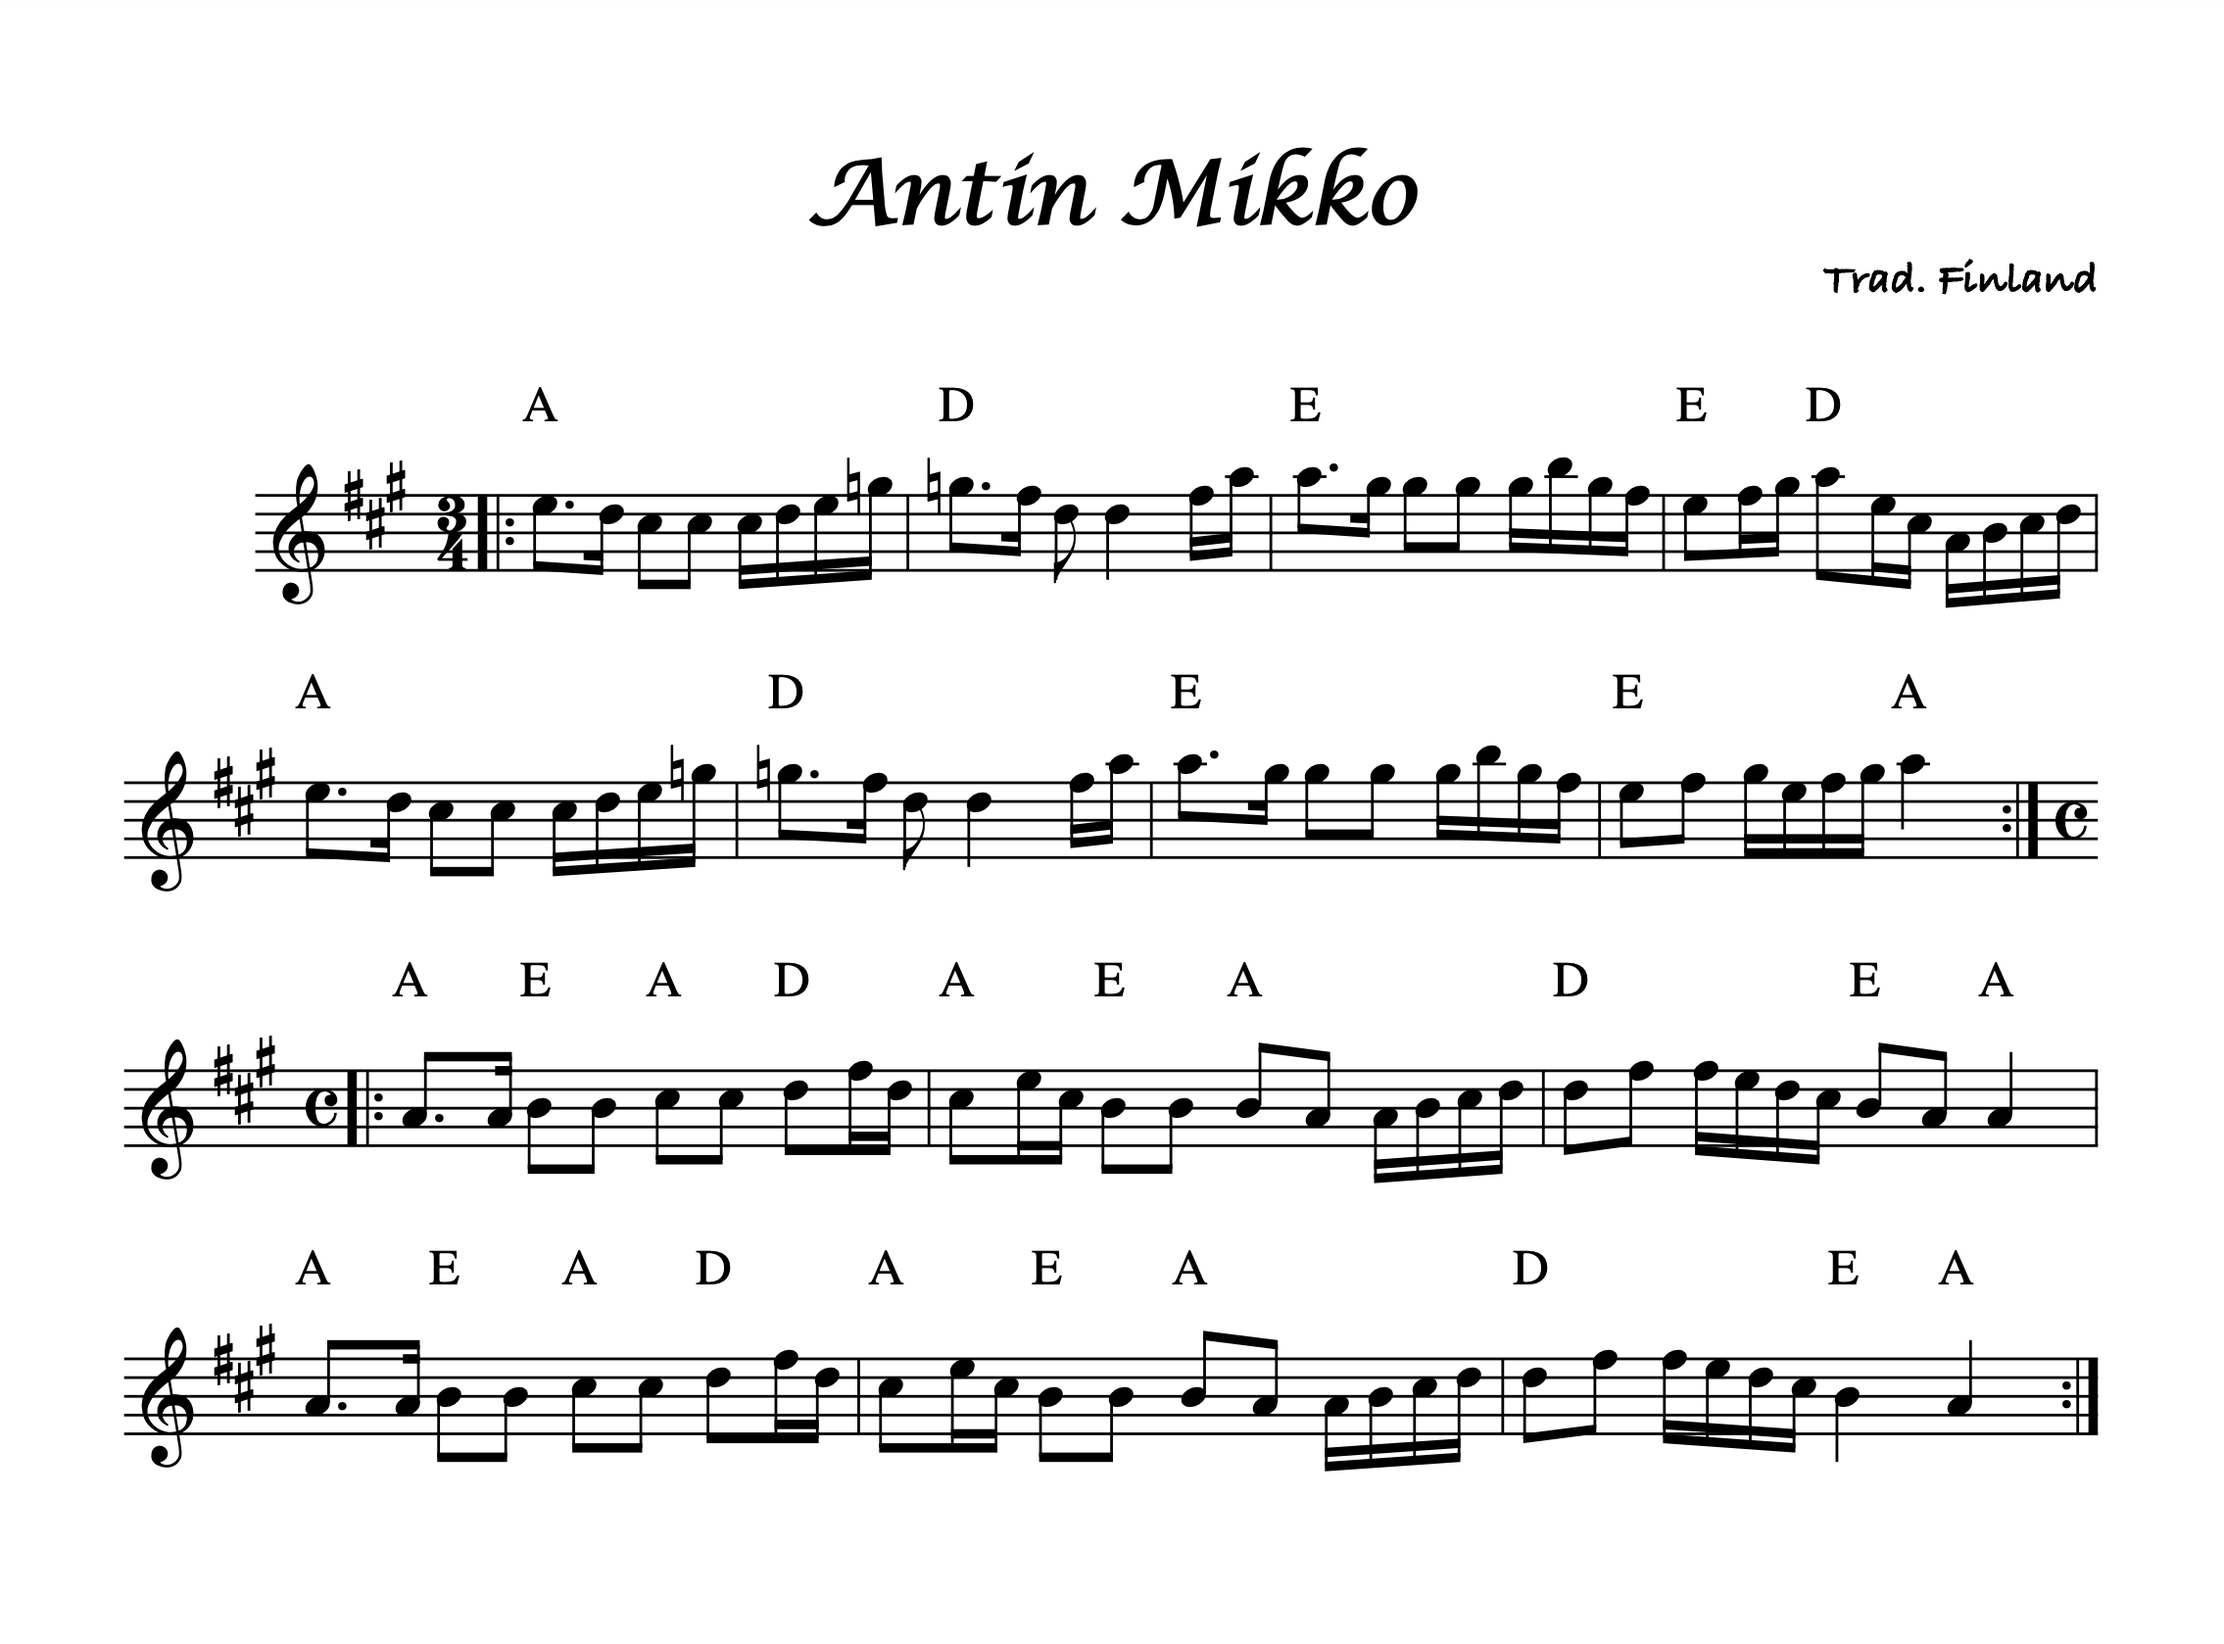
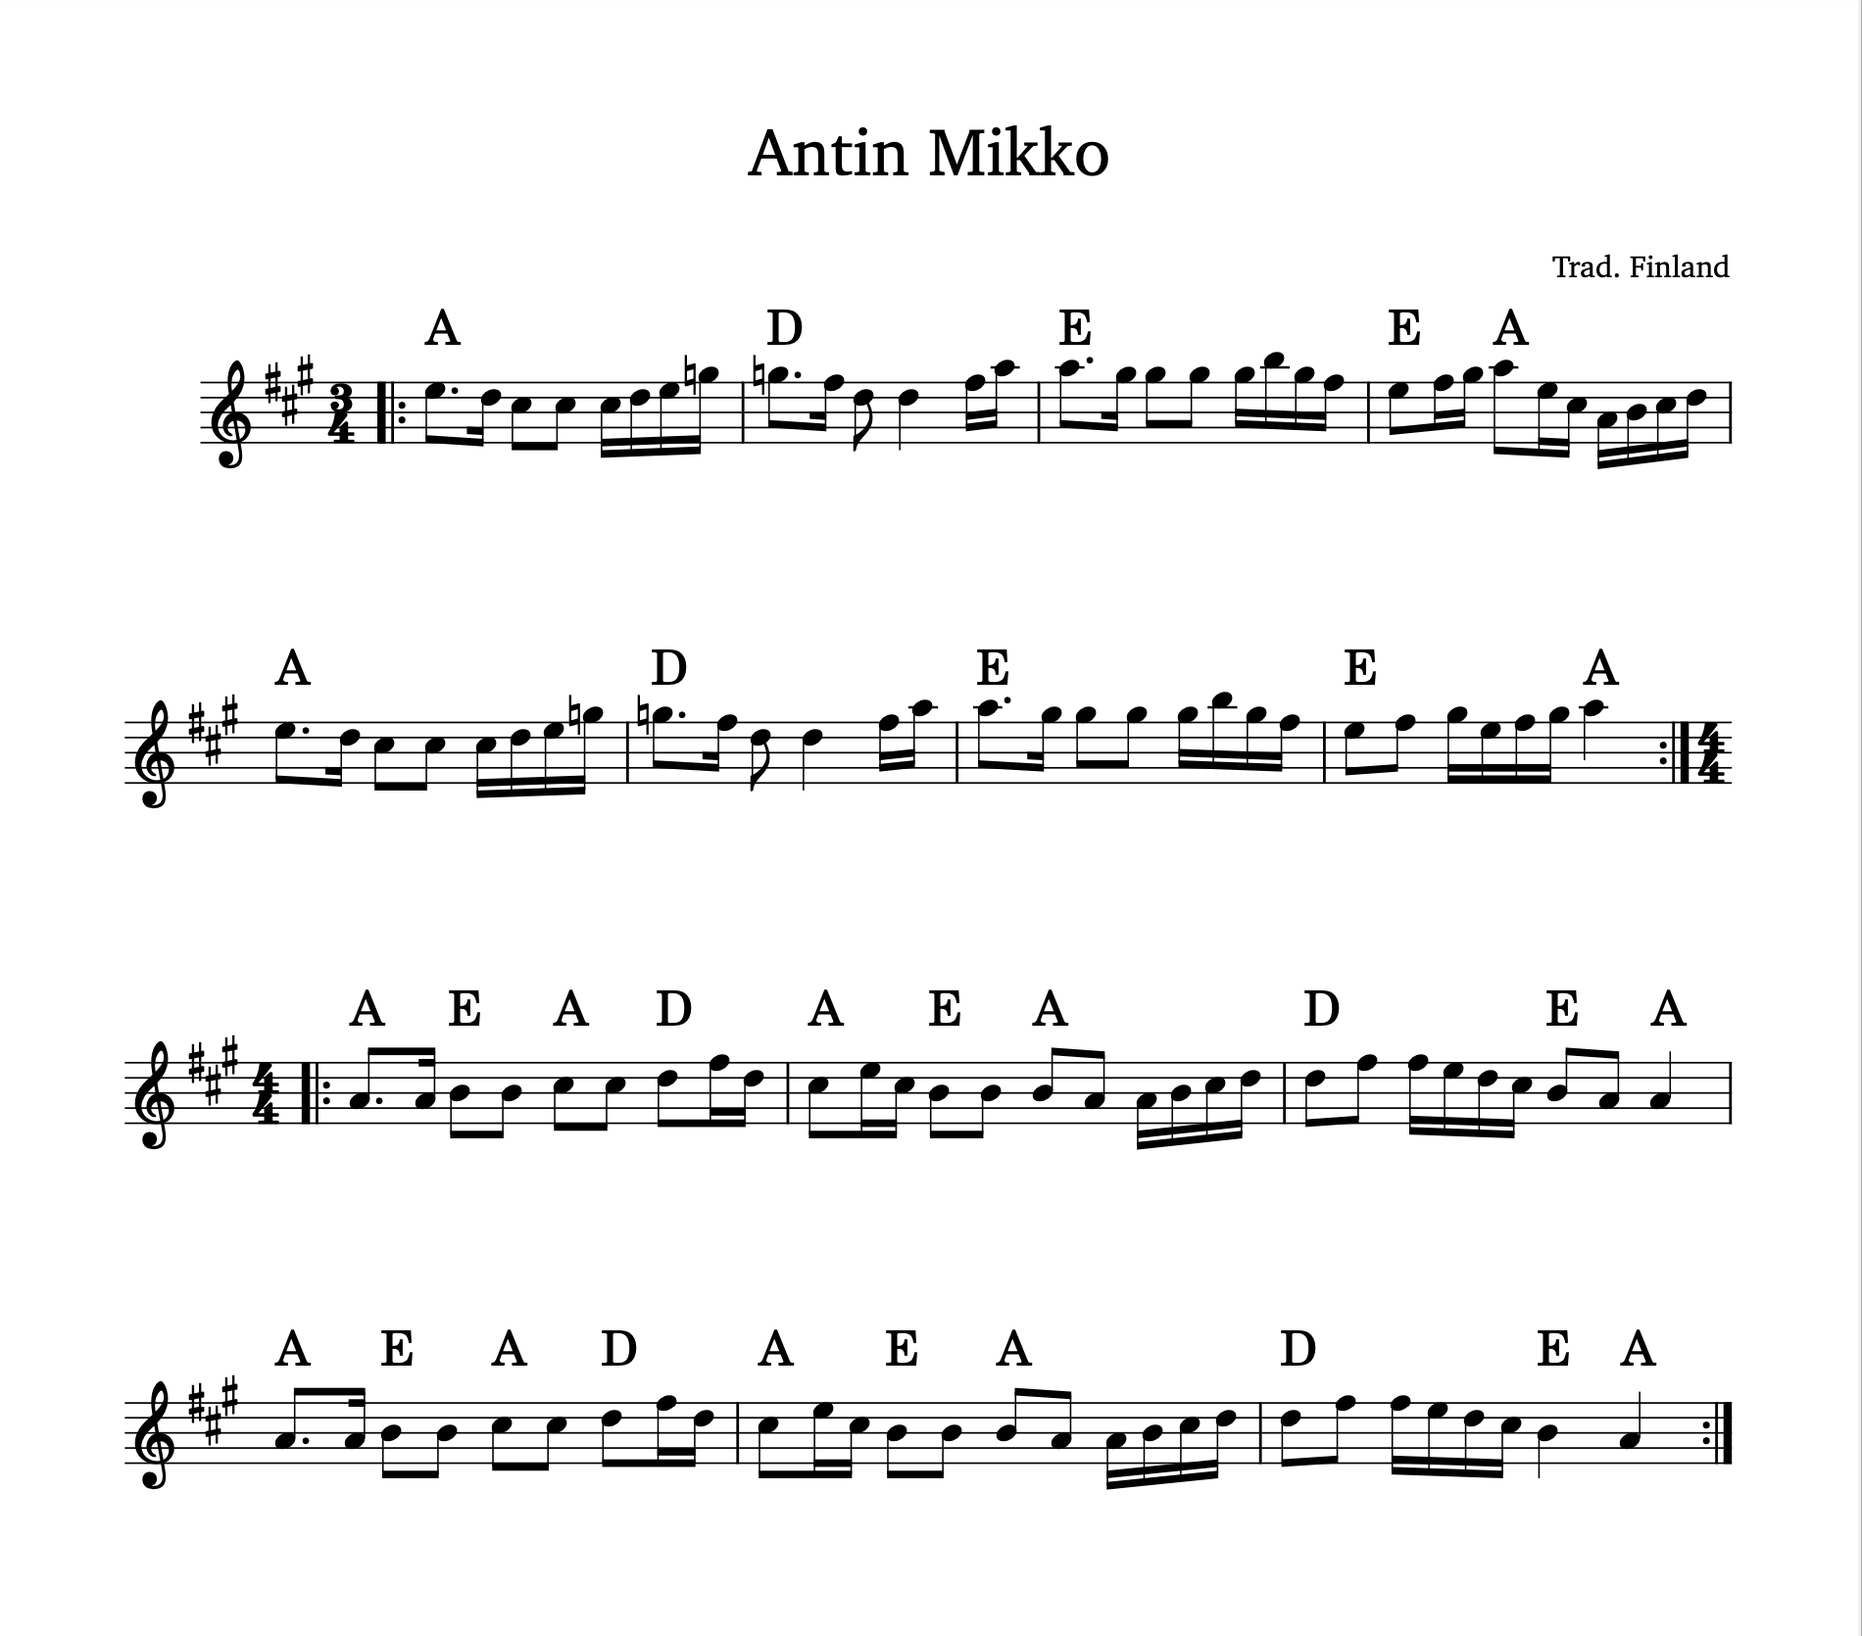
Edited chord chart, added new tune, small adjustments

diff --git a/Tunes/antin-mikko.html b/Tunes/antin-mikko.html
@@ -1,0 +1,89 @@
+<!DOCTYPE html>
+<html lang="en">
+  <head>
+    <meta charset="UTF-8" />
+    <meta http-equiv="X-UA-Compatible" content="IE=edge" />
+    <meta name="viewport" content="width=device-width, initial-scale=1.0" />
+    <title>Antin Mikko</title>
+    <link rel="stylesheet" href="../styles/styles.css" />
+    <link rel="preconnect" href="https://fonts.googleapis.com" />
+    <link rel="preconnect" href="https://fonts.gstatic.com" crossorigin />
+    <link
+      href="https://fonts.googleapis.com/css2?family=Economica:wght@700&display=swap"
+      rel="stylesheet"
+    />
+  </head>
+  <body>
+    <header class="header">
+      <div class="title">
+        <h1 class="title-text">
+          <a href="../index.html">Whangarei Tunes</a>
+        </h1>
+      </div>
+      <ul class="nav">
+        <li class="nav-item">
+          <a class="nav-name" href="../tunes.html">Tunes</a>
+          <div class="dropdown-menu">
+            <ul class="dropdown">
+              <li class="dropdown-item">
+                <a href="../sessionClass.html">Session Class</a>
+              </li>
+              <li class="dropdown-item">
+                <a href="../fridayTunes.html">Friday Tunes</a>
+              </li>
+            </ul>
+          </div>
+        </li>
+        <li class="nav-item">
+          <a class="nav-name" href="../resources.html">Resources</a>
+        </li>
+        <!-- <li class="nav-item">
+          <a class="nav-name" href="../articles.html">Articles</a>
+        </li> -->
+        <li class="nav-item">
+          <a class="nav-name" href="../chords.html">Chords</a>
+        </li>
+        <li class="nav-item">
+          <a
+            href="https://www.facebook.com/groups/whangareifolkrootstraditionalmusic"
+            target="_blank"
+            ><img
+              src="../images/facebook.png"
+              alt="facebook logo"
+              width="17"
+              height="17"
+          /></a>
+        </li>
+      </ul>
+    </header>
+    <div class="tuneDescription text">
+      <p></p>
+    </div>
+    <div class="sheetMusicContainer">
+      <img
+        class="img-tune"
+        src="../musicFiles/antin-mikko.png"
+        alt="Sheet music"
+      />
+    </div>
+    <div class="sheetMusicContainer">
+      <img
+        class="img-tune"
+        src="../musicFiles/antin-mikko2.png"
+        alt="Sheet music"
+      />
+    </div>
+    <div class="musicPlayer">
+      <iframe
+        style="border-radius: 12px"
+        src="https://open.spotify.com/embed/track/577T5XLMDJoylUOpFFBfNn?utm_source=generator"
+        width="100%"
+        height="352"
+        frameborder="0"
+        allowfullscreen=""
+        allow="autoplay; clipboard-write; encrypted-media; fullscreen; picture-in-picture"
+        loading="lazy"
+      ></iframe>
+    </div>
+  </body>
+</html>

diff --git a/Tunes/les-trois-canards.html b/Tunes/les-trois-canards.html
@@ -4,7 +4,7 @@
     <meta charset="UTF-8" />
     <meta http-equiv="X-UA-Compatible" content="IE=edge" />
     <meta name="viewport" content="width=device-width, initial-scale=1.0" />
-    <title>Antin Mikko</title>
+    <title>Les Trois Canards</title>
     <link rel="stylesheet" href="../styles/styles.css" />
     <link rel="preconnect" href="https://fonts.googleapis.com" />
     <link rel="preconnect" href="https://fonts.gstatic.com" crossorigin />
@@ -62,21 +62,10 @@
     <div class="sheetMusicContainer">
       <img
         class="img-tune"
-        src="../musicFiles/antin-mikko.png"
+        src="../musicFiles/les-trois-canards.png"
         alt="Sheet music"
       />
     </div>
-    <div class="musicPlayer">
-      <iframe
-        style="border-radius: 12px"
-        src="https://open.spotify.com/embed/track/577T5XLMDJoylUOpFFBfNn?utm_source=generator"
-        width="100%"
-        height="352"
-        frameborder="0"
-        allowfullscreen=""
-        allow="autoplay; clipboard-write; encrypted-media; fullscreen; picture-in-picture"
-        loading="lazy"
-      ></iframe>
-    </div>
+    <div class="musicPlayer"></div>
   </body>
 </html>

diff --git a/sessionClass.html b/sessionClass.html
@@ -93,14 +93,15 @@
         <h3 class="centered-content sub-heading">Tune(s) of the week:</h3>
 
         <p class="tune-name">
-          <a href="./Tunes/antin-miko.html">Antin Mikko, </a>
+          <a href="./Tunes/antin-mikko.html">Antin Mikko, </a>
 
           <a href="./Tunes/arthur-darleys.html">Arthur Darley's</a>
         </p>
         <h3 class="centered-content sub-heading">Up Next:</h3>
         <p class="tune-name">
           <a href="./Tunes/dans-loudieg.html">Dans Loudieg</a>,
-          <a href="./Tunes/l'orientale.html">L'Orientale</a>
+          <a href="./Tunes/l'orientale.html">L'Orientale</a>,
+          <a href="./Tunes/les-trois-canards.html">Les Trois Canards</a>
         </p>
       </div>
       <div>
@@ -200,6 +201,11 @@
           <li class="tune-name">
             <a href="./Tunes/cuckoos-nest.html">The Cuckoo's Nest</a>: Hornpipe,
             D
+          </li>
+          <li class="tune-name">
+            <a href="https://thesession.org/tunes/20" target="_blank"
+              >The Cup Of Tea</a
+            >: Reel, Em / D
           </li>
           <li class="tune-name">
             <a
